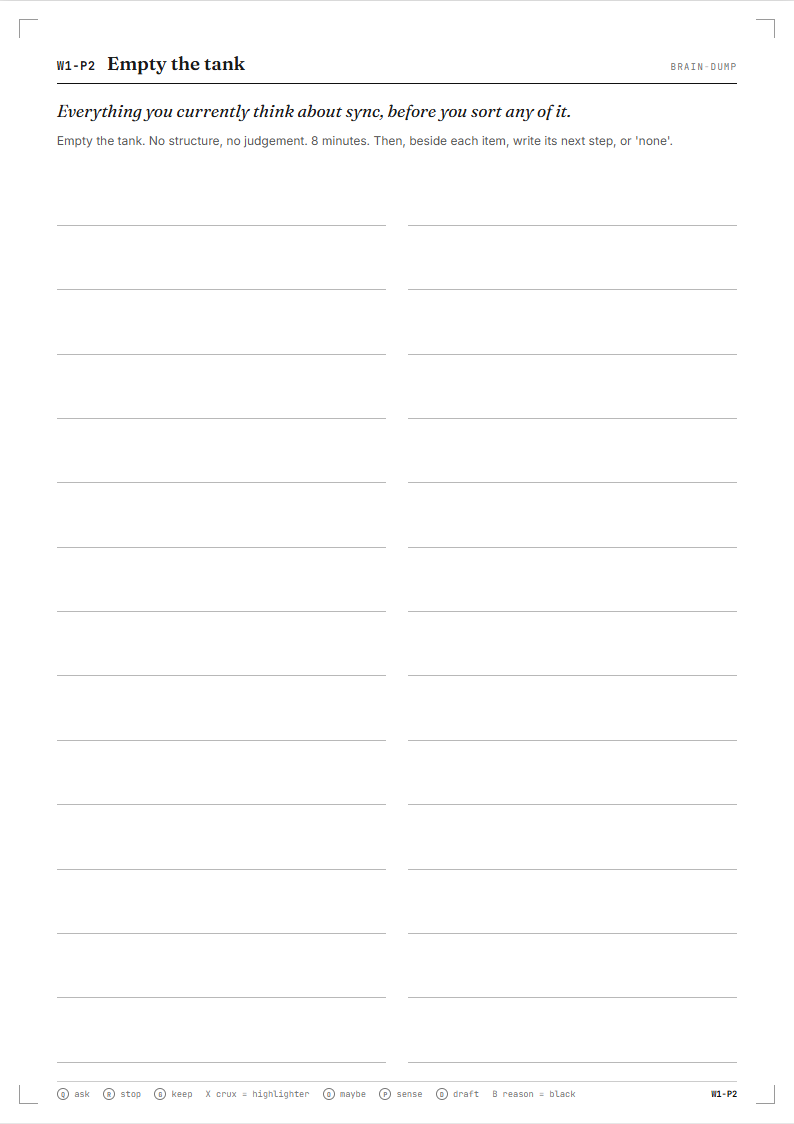
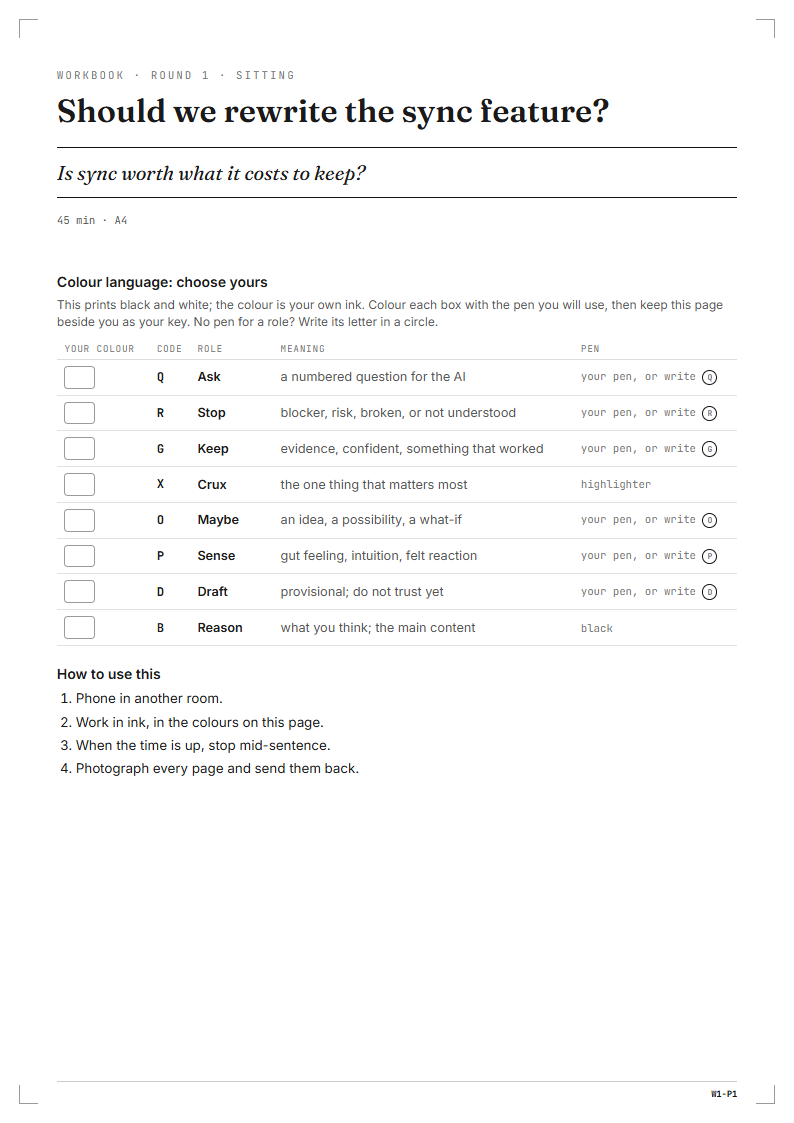
docs: show Sitting cover in README

diff --git a/.github/assets/src/generate-readme-svg.py b/.github/assets/src/generate-readme-svg.py
@@ -104,7 +104,7 @@ def loop():
         ("PHOTOGRAPH", 742, 347, 31, paper, 1.1),
         ("AGENT READS", 63, 551, 31, paper, 1.1),
         ("THE MARKS", 63, 586, 31, paper, 1.1),
-        ("ASK Q", 449, 230, 18, "#1f4fbf", 0),
+        ("ASK Q1", 449, 230, 18, "#1f4fbf", 0),
         ("STOP R", 449, 296, 18, "#c0332b", 0),
         ("CRUX", 449, 363, 18, ink, 0),
     ]:
@@ -151,7 +151,7 @@ def loop_mobile():
         ("PHOTOGRAPH", 209, 491, 21, paper, 0.3),
         ("AGENT READS", 20, 596, 22, paper, 0.5),
         ("THE MARKS", 20, 623, 22, paper, 0.5),
-        ("ASK Q", 149, 307, 15, "#1f4fbf", 0),
+        ("ASK Q1", 149, 307, 15, "#1f4fbf", 0),
         ("STOP R", 149, 353, 15, "#c0332b", 0),
         ("CRUX", 149, 400, 15, "#173b39", 0),
     ]:

diff --git a/README.md b/README.md
@@ -24,9 +24,9 @@ marks on a proof into an action queue.
 > skills should work too. Expect rough edges, and please report them in
 > [issues](https://github.com/vandermerwed/switchback/issues).
 
-<p align="center"><img src=".github/assets/sitting-page.png" width="390" alt="Unmarked Sitting workbook page W1-P2, Empty the tank, with a prompt and two columns of writing lines"></p>
+<p align="center"><img src=".github/assets/sitting-page.png" width="390" alt="Unmarked Sitting workbook cover W1-P1, with the sync question, colour-language table and instructions"></p>
 
-<p align="center"><em>Sitting workbook, page W1-P2, built by the Switchback CLI and ready to print.</em></p>
+<p align="center"><em>Sitting workbook cover W1-P1, built by the Switchback CLI and ready to print.</em></p>
 
 ## The loop
 
